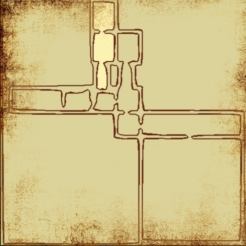
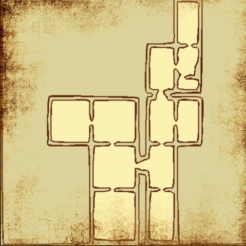
template rotate items and npcs

diff --git a/site/htdocs/game-world/generateCircularDungeonMap.php b/site/htdocs/game-world/generateCircularDungeonMap.php
@@ -2,6 +2,43 @@
 
 include $_SERVER['DOCUMENT_ROOT'] . "/game-world/generateCircularDungeonMap-third-party-arrow-code.php";
 include("../includes/dungeonMapConfig.php");
+
+if (isset($_GET["debug"])) {
+    $debug = true;
+} else {
+    $debug = false;
+}
+
+if($debug) {
+?>
+<style>
+body, p {
+font-family:arial,helvetica,sans-serif;font-size:14px;
+}
+
+.sequenceBlock {
+    float: left;
+    width: 22.5%;
+    margin: 0 1.25% 2.5% 1.25%;
+}
+
+.wider {
+    width: 97.5%;
+}
+
+.sequenceBlock:nth-child(4n+1) {
+    clear: left;
+}
+
+img {
+    display: block;
+   width: 100%;
+}
+</style>
+<?php
+}
+
+
 /* ----
 
 TO DO:
@@ -20,6 +57,7 @@ water or lava courses (?)
 when placing items, place them clear of templates
 offset doors (and connecting corridors)
 templates specific to a dungeon theme - have the dungeon's clean URL within the template folder (?)
+
 
 
 ISSUES:
@@ -396,11 +434,6 @@ $thisPlayersId = 999;
     }
     $dungeonName = $_GET["dungeonName"];
     mt_srand($storedSeed);
-if (isset($_GET["debug"])) {
-        $debug = true;
-    } else {
-        $debug = false;
-    }
 }
 
 function growGrammar($thisGrammar, $iterations)
@@ -1585,7 +1618,7 @@ if($debug) {
 
 
 function outputJSONContent() {
-global $debug, $map, $itemMap, $drawnTileDoors, $drawnTileKeys, $mapTilesX, $mapTilesY, $storedSeed, $thisMapsId, $thisPlayersId, $entranceX, $entranceY, $exitX, $exitY, $dungeonName, $dungeonDetails, $outputJSON, $templateGraphicsToAppend, $templateNPCsToAppend, $templateItemsToAppend, $allTemplateJSON, $templateOffsetX, $templateOffsetY;
+global $debug, $map, $itemMap, $drawnTileDoors, $drawnTileKeys, $mapTilesX, $mapTilesY, $storedSeed, $thisMapsId, $thisPlayersId, $entranceX, $entranceY, $exitX, $exitY, $dungeonName, $dungeonDetails, $outputJSON, $templateGraphicsToAppend, $templateNPCsToAppend, $templateItemsToAppend, $templateHotspotsToAppend, $allTemplateJSON, $templateOffsetX, $templateOffsetY;
 
 
 
@@ -1722,6 +1755,7 @@ $outputJSON .= substr(json_encode($collisions),1,-1).", ".substr(json_encode($te
 $outputJSON .= ',"graphics": ['.$dungeonDetails[$dungeonName]['graphics'].$templateGraphicsToAppend.'],';
 $outputJSON .= '"shops": [],';
 $outputJSON .= '"npcs": ['.$templateNPCsToAppend.'],';
+$outputJSON .= '"hotspots": ['.$templateHotspotsToAppend.'],';
 $outputJSON .= '"doors": [],';
 $outputJSON .= '"innerDoors": {';
 
@@ -1999,8 +2033,35 @@ function rotateArray180($inputArray) {
 }
 
 
+function flipCoordinatesHorizontally($position, $templateWidth, $templateHeight) {
+   
+    $position[0] = $templateWidth - $position[0] -1;
+    return $position;
+}
+
+function rotateCoordinates180($position, $templateWidth, $templateHeight) {
+
+    $position[0] = $templateWidth - $position[0] -1;
+    $position[1] = $templateHeight - $position[1] -1;
+    return $position;
+}
+
+function rotateCoordinates90Clockwise($position, $templateWidth, $templateHeight) {
+
+    $position[0] = $templateHeight - $position[1] -1;
+    $position[1] = $position[0];
+    return $position;
+}
+
+function rotateCoordinates90Anticlockwise($position, $templateWidth, $templateHeight) {
+
+    $position[0] = $position[1];
+    $position[1] = $templateWidth - $position[0] -1;
+    return $position;
+}
+
    function findRelevantTemplates() {
-  global $dungeonName, $thisMapsId, $dungeonDetails, $thisMapsId, $drawnTileRooms, $map, $templateGraphicsToAppend, $templateNPCsToAppend, $templateItemsToAppend, $allTemplateJSON, $templateOffsetX, $templateOffsetY;
+  global $dungeonName, $thisMapsId, $dungeonDetails, $thisMapsId, $drawnTileRooms, $map, $templateGraphicsToAppend, $templateNPCsToAppend, $templateItemsToAppend, $allTemplateJSON, $templateOffsetX, $templateOffsetY, $templateHotspotsToAppend;
     // read contents of dir and find number of files:
     $dir = $_SERVER['DOCUMENT_ROOT'] . "/templates/dungeon/".$dungeonName."/";
     $filesFound = array();
@@ -2043,6 +2104,7 @@ array_push($templatesToUse, $templateName);
 
 $templateGraphicsToAppend = '';
 $templateNPCsToAppend = '';
+$templateHotspotsToAppend = '';
 $templateItemsToAppend = '';
 
     $templateOffsetX = array();
@@ -2068,7 +2130,14 @@ $templateItemsToAppend = '';
             $templateJSON = json_decode($templateJSONFile, true);
           
 
+
+$rotation = 1;
+$flip = 1;
+
+if($templateJSON['template']['rotatable']) {
+
 $rotation = mt_rand(1,4);
+$flip = mt_rand(1,2);
 // case 1 is no rotation
 
 switch ($rotation) {
@@ -2076,6 +2145,7 @@ switch ($rotation) {
         $templateJSON['template']['terrain'] = rotateArray90Clockwise($templateJSON['template']['terrain']);
 $templateJSON['template']['collisions'] = rotateArray90Clockwise($templateJSON['template']['collisions']);
 $templateJSON['template']['elevation'] = rotateArray90Clockwise($templateJSON['template']['elevation']);
+
         break;
     case 3:
      $templateJSON['template']['terrain'] = rotateArray90Anticlockwise($templateJSON['template']['terrain']);
@@ -2089,25 +2159,112 @@ $templateJSON['template']['elevation'] = rotateArray180($templateJSON['template'
         break;
 }
 
+  // determine this template's dimensions:
+            $templateHeight = count($templateJSON['template']['terrain']);
+            $templateWidth = count($templateJSON['template']['terrain'][0]);
 
+// rotate items, npcs and hotspot positions:
+switch ($rotation) {
+  case 2:
+  for($j=0;$j<count($templateJSON['template']['npcs']);$j++) {
+$thisNPC = $templateJSON['template']['npcs'][$j];
+$newPosition = rotateCoordinates90Clockwise(array($thisNPC['tileX'], $thisNPC['tileY']),$templateWidth,$templateHeight);
+$templateJSON['template']['npcs'][$j]['tileX'] = $newPosition[0];
+$templateJSON['template']['npcs'][$j]['tileX'] = $newPosition[1];
+}
+for($j=0;$j<count($templateJSON['template']['hotspots']);$j++) {
+    $thisHotspot = $templateJSON['template']['hotspots'][$j];
+    $newPosition = rotateCoordinates90Clockwise(array($thisHotspot['centreX'], $thisHotspot['centreY']),$templateWidth,$templateHeight);
+    $templateJSON['template']['hotspots'][$j]['centreX'] = $newPosition[0];
+    $templateJSON['template']['hotspots'][$j]['centreY'] = $newPosition[1];
 
+}
+for($j=0;$j<count($templateJSON['template']['items']);$j++) {
+    $thisItem = $templateJSON['template']['items'][$j];
+    $newPosition = rotateCoordinates90Clockwise(array($thisItem['tileX'], $thisNPC['tileY']),$templateWidth,$templateHeight);
+    $templateJSON['template']['items'][$j]['tileX'] = $newPosition[0];
+$templateJSON['template']['items'][$j]['tileX'] = $newPosition[1];
+}
+  break;
+  case 3:
+  for($j=0;$j<count($templateJSON['template']['npcs']);$j++) {
+$thisNPC = $templateJSON['template']['npcs'][$j];
+$newPosition = rotateCoordinates90Anticlockwise(array($thisNPC['tileX'], $thisNPC['tileY']),$templateWidth,$templateHeight);
+$templateJSON['template']['npcs'][$j]['tileX'] = $newPosition[0];
+$templateJSON['template']['npcs'][$j]['tileX'] = $newPosition[1];
+}
+for($j=0;$j<count($templateJSON['template']['hotspots']);$j++) {
+    $thisHotspot = $templateJSON['template']['hotspots'][$j];
+    $newPosition = rotateCoordinates90Anticlockwise(array($thisHotspot['centreX'], $thisHotspot['centreY']),$templateWidth,$templateHeight);
+    $templateJSON['template']['hotspots'][$j]['centreX'] = $newPosition[0];
+    $templateJSON['template']['hotspots'][$j]['centreY'] = $newPosition[1];
 
+}
+for($j=0;$j<count($templateJSON['template']['items']);$j++) {
+    $thisItem = $templateJSON['template']['items'][$j];
+    $newPosition = rotateCoordinates90Anticlockwise(array($thisItem['tileX'], $thisNPC['tileY']),$templateWidth,$templateHeight);
+    $templateJSON['template']['items'][$j]['tileX'] = $newPosition[0];
+$templateJSON['template']['items'][$j]['tileX'] = $newPosition[1];
+}
+  break;
+  case 4:
+  for($j=0;$j<count($templateJSON['template']['npcs']);$j++) {
+$thisNPC = $templateJSON['template']['npcs'][$j];
+$newPosition = rotateCoordinates180(array($thisNPC['tileX'], $thisNPC['tileY']),$templateWidth,$templateHeight);
+$templateJSON['template']['npcs'][$j]['tileX'] = $newPosition[0];
+$templateJSON['template']['npcs'][$j]['tileX'] = $newPosition[1];
+}
+for($j=0;$j<count($templateJSON['template']['hotspots']);$j++) {
+    $thisHotspot = $templateJSON['template']['hotspots'][$j];
+    $newPosition = rotateCoordinates180(array($thisHotspot['centreX'], $thisHotspot['centreY']),$templateWidth,$templateHeight);
+    $templateJSON['template']['hotspots'][$j]['centreX'] = $newPosition[0];
+    $templateJSON['template']['hotspots'][$j]['centreY'] = $newPosition[1];
 
-if(mt_rand(1,2) == 1) {
+}
+for($j=0;$j<count($templateJSON['template']['items']);$j++) {
+    $thisItem = $templateJSON['template']['items'][$j];
+    $newPosition = rotateCoordinates180(array($thisItem['tileX'], $thisNPC['tileY']),$templateWidth,$templateHeight);
+    $templateJSON['template']['items'][$j]['tileX'] = $newPosition[0];
+$templateJSON['template']['items'][$j]['tileX'] = $newPosition[1];
+}
+  break;
+}
+
+if($flip == 2) {
 $templateJSON['template']['terrain'] = flipArray($templateJSON['template']['terrain']);
 $templateJSON['template']['collisions'] = flipArray($templateJSON['template']['collisions']);
 $templateJSON['template']['elevation'] = flipArray($templateJSON['template']['elevation']);
+// flip items, npcs and hotspot positions:
+
+
+for($j=0;$j<count($templateJSON['template']['npcs']);$j++) {
+$thisNPC = $templateJSON['template']['npcs'][$j];
+$newPosition = flipCoordinatesHorizontally(array($thisNPC['tileX'], $thisNPC['tileY']),$templateWidth,$templateHeight);
+$templateJSON['template']['npcs'][$j]['tileX'] = $newPosition[0];
+$templateJSON['template']['npcs'][$j]['tileX'] = $newPosition[1];
+}
+for($j=0;$j<count($templateJSON['template']['hotspots']);$j++) {
+    $thisHotspot = $templateJSON['template']['hotspots'][$j];
+    $newPosition = flipCoordinatesHorizontally(array($thisHotspot['centreX'], $thisHotspot['centreY']),$templateWidth,$templateHeight);
+    $templateJSON['template']['hotspots'][$j]['centreX'] = $newPosition[0];
+    $templateJSON['template']['hotspots'][$j]['centreY'] = $newPosition[1];
+
+}
+for($j=0;$j<count($templateJSON['template']['items']);$j++) {
+    $thisItem = $templateJSON['template']['items'][$j];
+    $newPosition = flipCoordinatesHorizontally(array($thisItem['tileX'], $thisNPC['tileY']),$templateWidth,$templateHeight);
+    $templateJSON['template']['items'][$j]['tileX'] = $newPosition[0];
+$templateJSON['template']['items'][$j]['tileX'] = $newPosition[1];
+}
+}
+
+
 }
 
 
 
 
-
-
-
-            // determine this template's dimensions:
-            $templateHeight = count($templateJSON['template']['terrain']);
-            $templateWidth = count($templateJSON['template']['terrain'][0]);
+          
 
 
 
@@ -2189,6 +2346,14 @@ do {
                                     $thisNPC['tileY'] += $thisTemplateOffsetY;
                                     $templateNPCsToAppend .= json_encode($thisNPC).', ';
                                 }
+
+                                          for($j=0;$j<count($templateJSON['template']['hotspots']);$j++) {
+                                    $thisHotspot = $templateJSON['template']['hotspots'][$j];
+                                    // map their location:
+                                    $thisHotspot['centreX'] += $thisTemplateOffsetX;
+                                    $thisHotspot['centreY'] += $thisTemplateOffsetY;
+                                    $templateHotspotsToAppend .= json_encode($thisHotspot).', ';
+                                }
                             
 
                                 for($j=0;$j<count($templateJSON['template']['items']);$j++) {
@@ -2211,6 +2376,7 @@ do {
                             $templateNPCsToAppend = rtrim($templateNPCsToAppend, ', ');
                              // remove last comma:
                             $templateItemsToAppend = rtrim($templateItemsToAppend, ', ');
+                            $templateHotspotsToAppend = rtrim($templateHotspotsToAppend, ', ');
     }
 }
 
@@ -2636,35 +2802,7 @@ echo '</code>';
 }
 
 
-if($debug) {
-    ?>
-<style>
 
-body, p {
-font-family:arial,helvetica,sans-serif;font-size:14px;
-}
-
-.sequenceBlock {
-    float: left;
-    width: 22.5%;
-    margin: 0 1.25% 2.5% 1.25%;
-}
-
-.wider {
-    width: 97.5%;
-}
-
-.sequenceBlock:nth-child(4n+1) {
-    clear: left;
-}
-
-img {
-    display: block;
-   width: 100%;
-}
-</style>
-<?php
-}
 if($debug) {
 echo '<p style="clear:both;padding-top:20px;"><a href="' . explode("?", $_SERVER["REQUEST_URI"])[0] . '?debug=true&amp;dungeonName='.$dungeonName.'&amp;requestedMap='.$thisMapsId.'&amp;seed=' . $storedSeed . '">' . $storedSeed . '</a> | <a href="' . explode("?", $_SERVER["REQUEST_URI"])[0] . '?debug=true&amp;dungeonName='.$dungeonName.'&amp;requestedMap='.$thisMapsId.'">New seed</a></p>';
 }

diff --git a/site/htdocs/includes/title-tag.php b/site/htdocs/includes/title-tag.php
@@ -34,7 +34,7 @@ $longDescription="Autumn Earth community site";
 
 case "scriptorium":
 	$pagetitle = 'Writings from Autumn Earth';
-	$longDescription = 'Tomes, Journals, Almanacs, Manifests, Letters, Illuminated Manuscripts, Poems and Recipes';
+	$longDescription = 'Tomes, Journals, Almanacs, Scrolls, Manifests, Letters, Illuminated Manuscripts, Poems and Recipes';
 break;
 
     case "forum":
